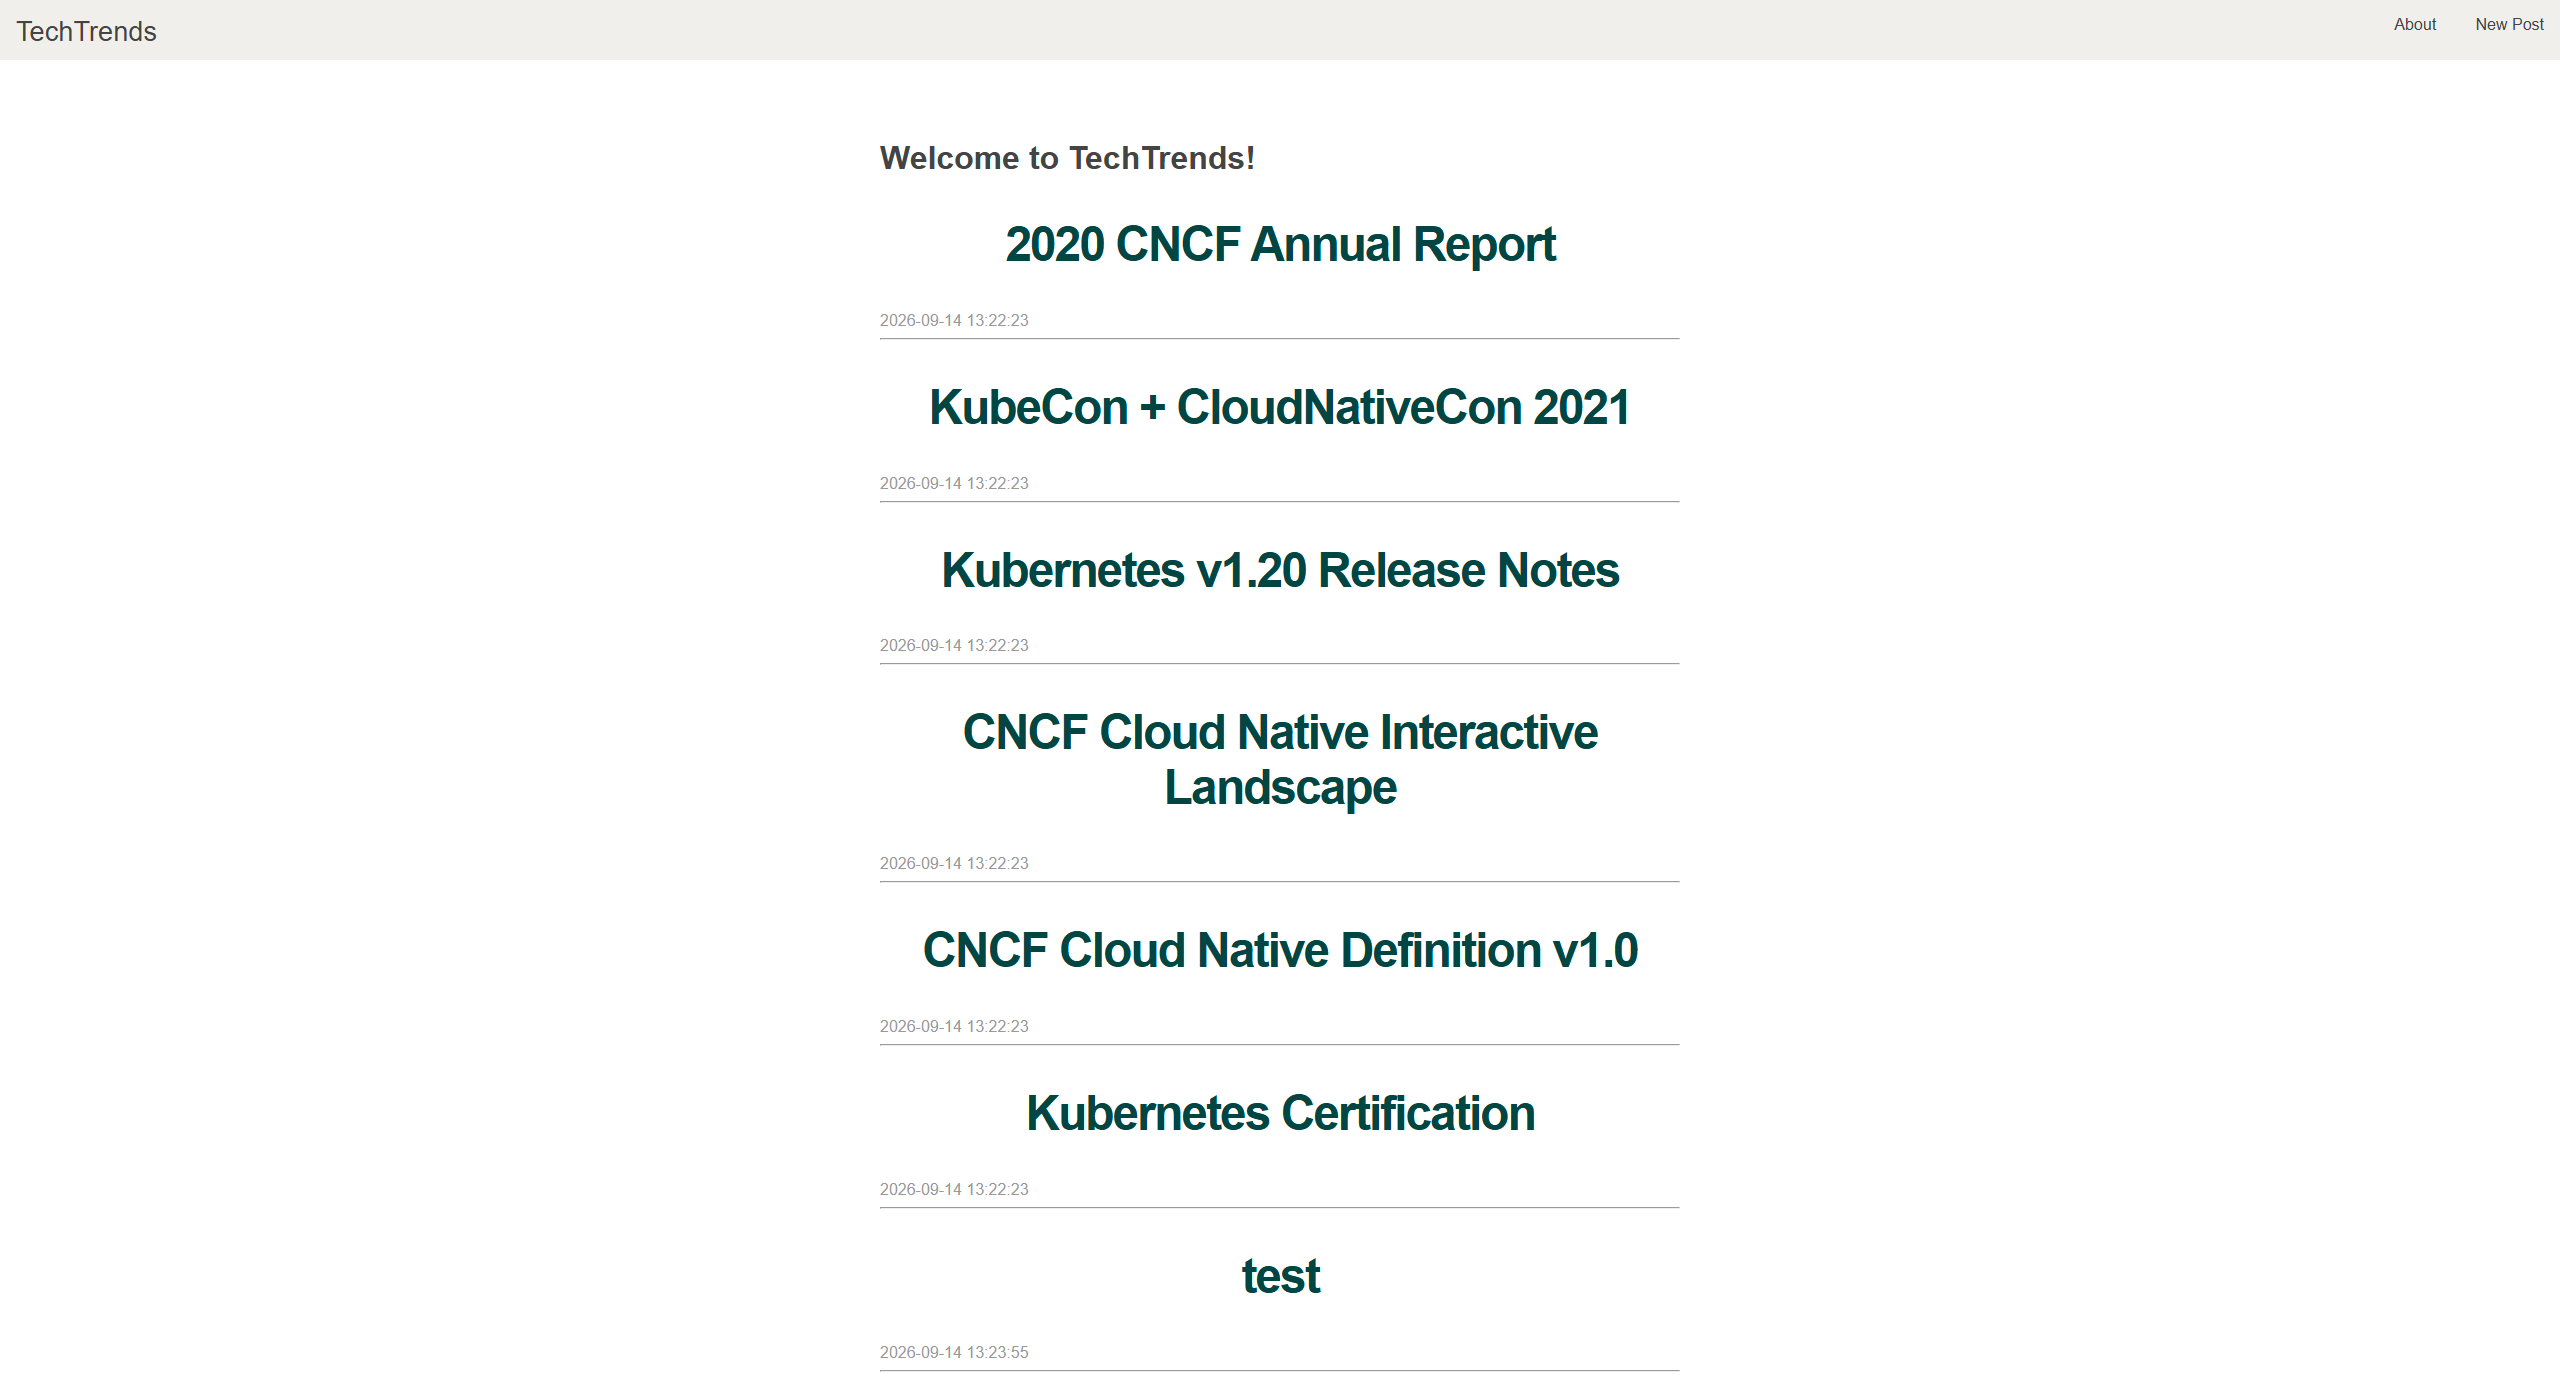
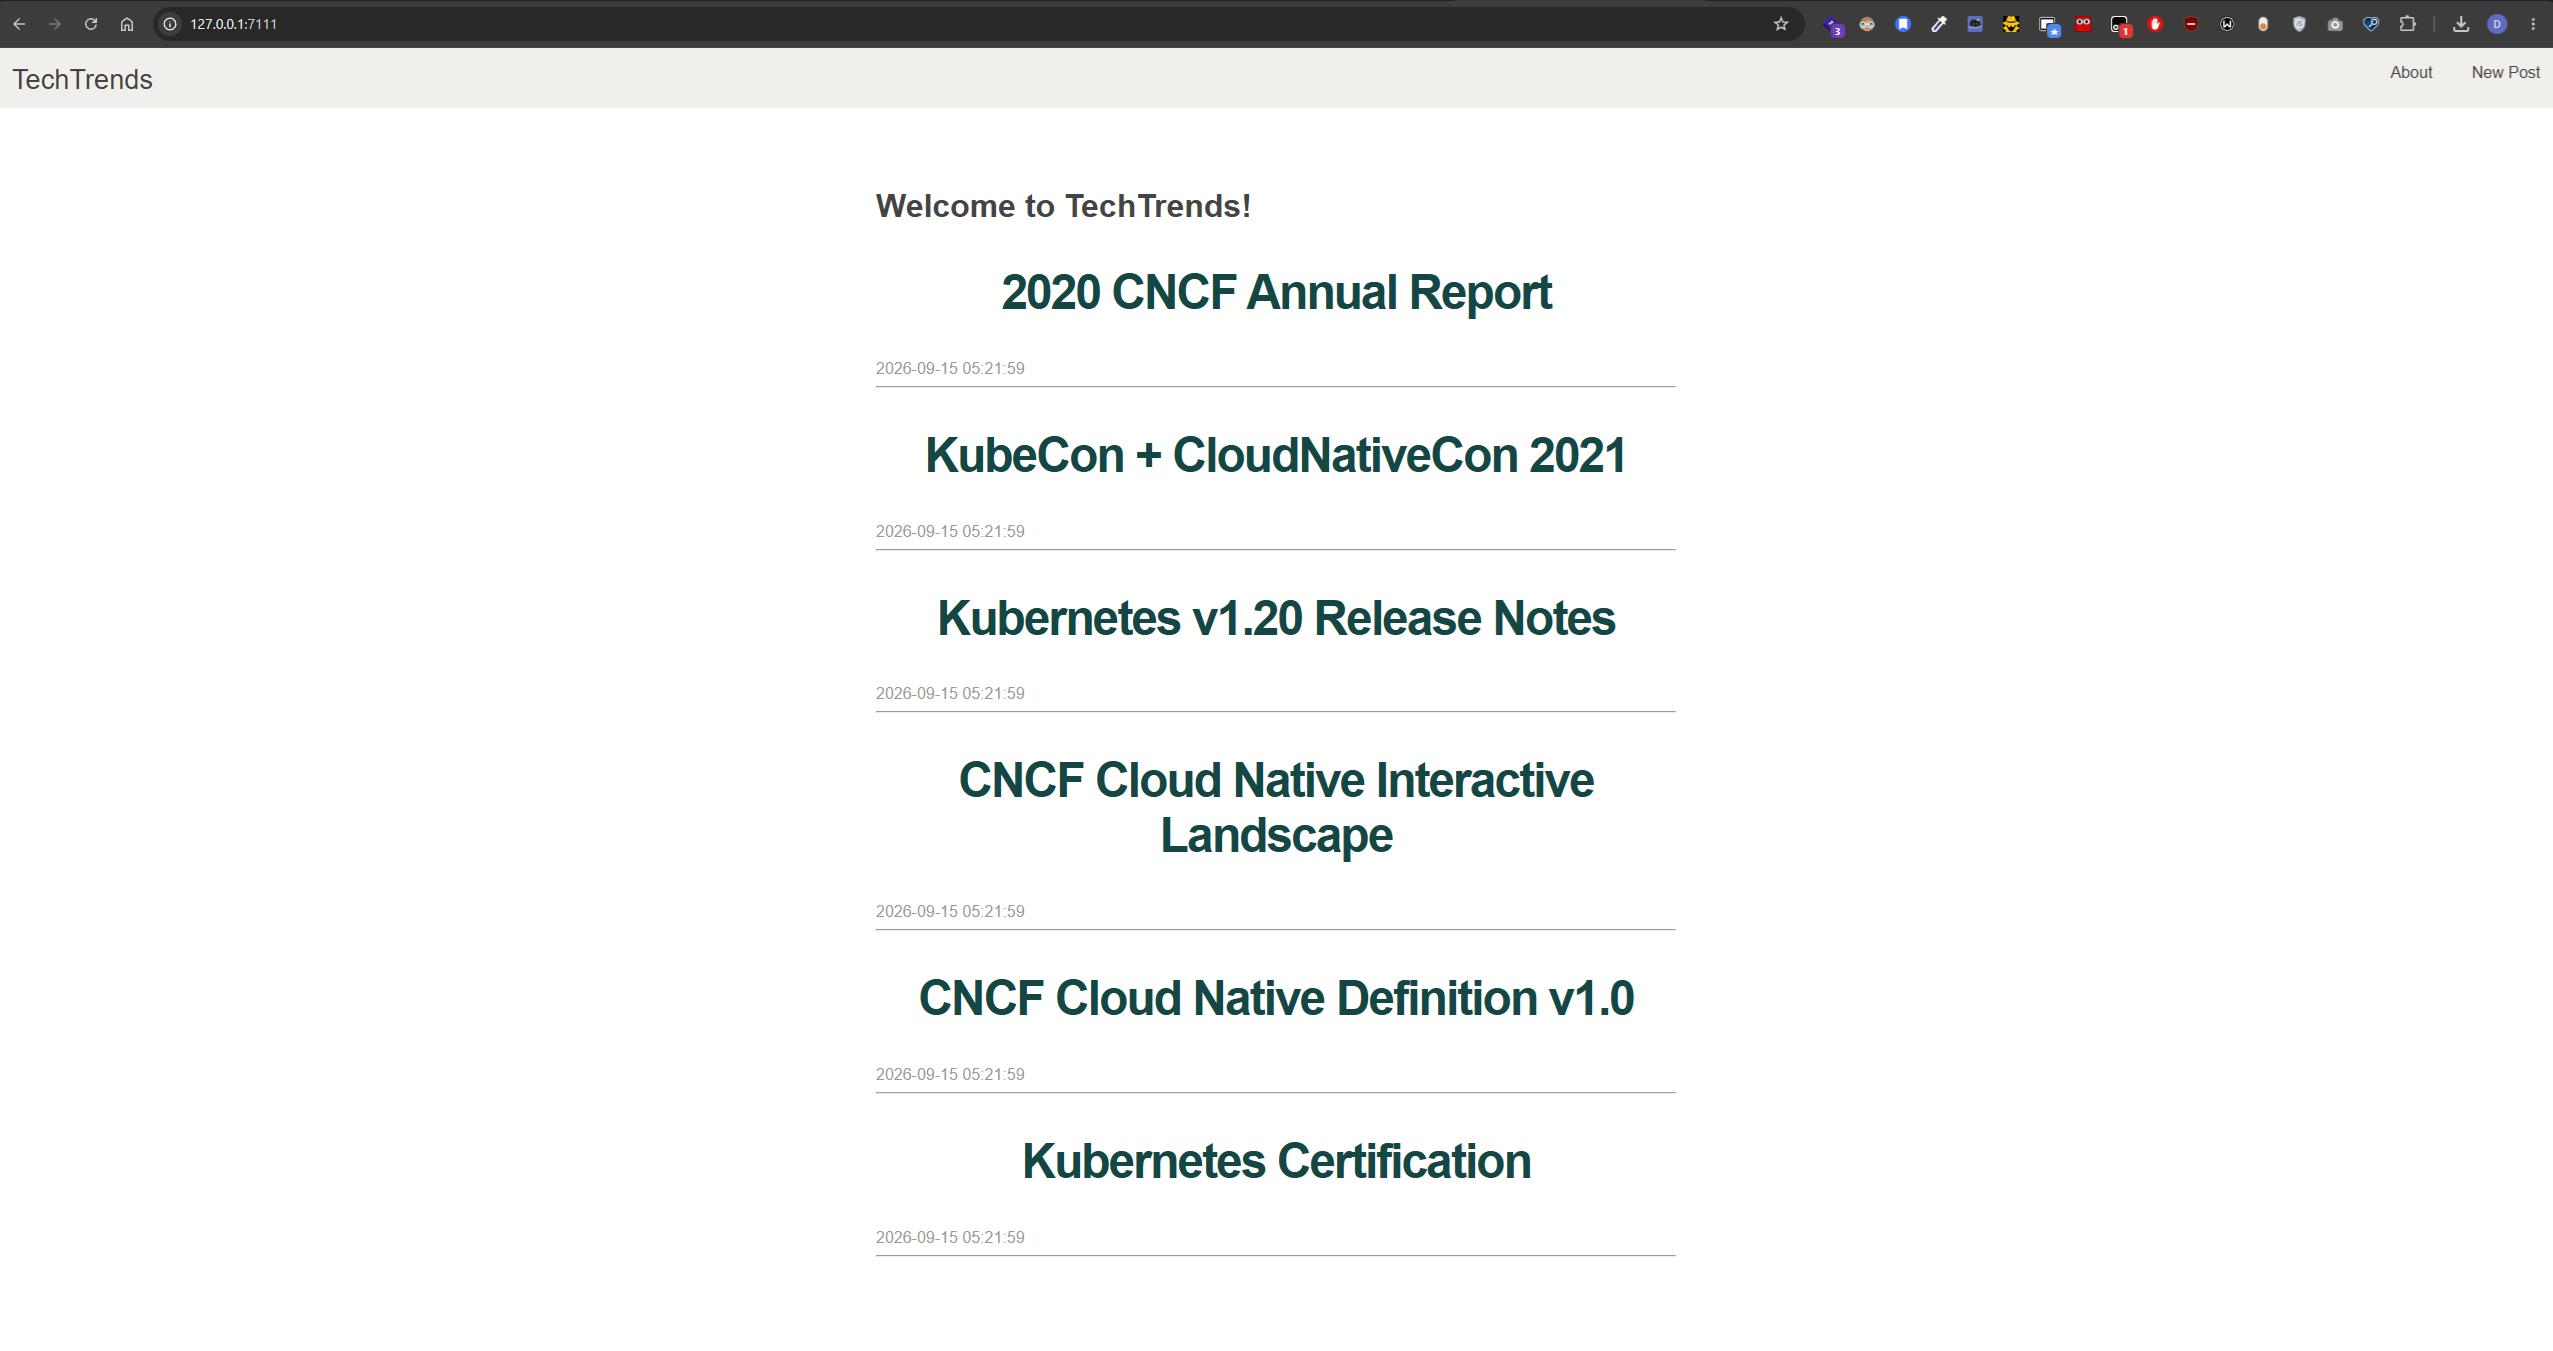
Fix stderr logging and local browser evidence

diff --git a/app.py b/app.py
@@ -6,12 +6,29 @@ from threading import Lock
 from flask import Flask, flash, jsonify, redirect, render_template, request, url_for
 
 
-# Configure application/Python logging to STDOUT at DEBUG level.
+class BelowErrorFilter(logging.Filter):
+    def filter(self, record):
+        return record.levelno < logging.ERROR
+
+
+formatter = logging.Formatter(
+    "%(levelname)s:%(name)s:%(asctime)s, %(message)s",
+    datefmt="%m/%d/%Y, %H:%M:%S",
+)
+
+stdout_handler = logging.StreamHandler(sys.stdout)
+stdout_handler.setLevel(logging.DEBUG)
+stdout_handler.addFilter(BelowErrorFilter())
+stdout_handler.setFormatter(formatter)
+
+stderr_handler = logging.StreamHandler(sys.stderr)
+stderr_handler.setLevel(logging.ERROR)
+stderr_handler.setFormatter(formatter)
+
 logging.basicConfig(
     level=logging.DEBUG,
-    format="%(levelname)s:%(name)s:%(asctime)s, %(message)s",
-    datefmt="%m/%d/%Y, %H:%M:%S",
-    stream=sys.stdout,
+    handlers=[stdout_handler, stderr_handler],
+    force=True,
 )
 
 # Track successful database connections for the /metrics endpoint.
@@ -97,7 +114,7 @@ def metrics():
 def post(post_id):
     post_record = get_post(post_id)
     if post_record is None:
-        app.logger.warning(
+        app.logger.error(
             "Non-existing article with ID %s accessed; 404 page returned!", post_id
         )
         return render_template("404.html"), 404
